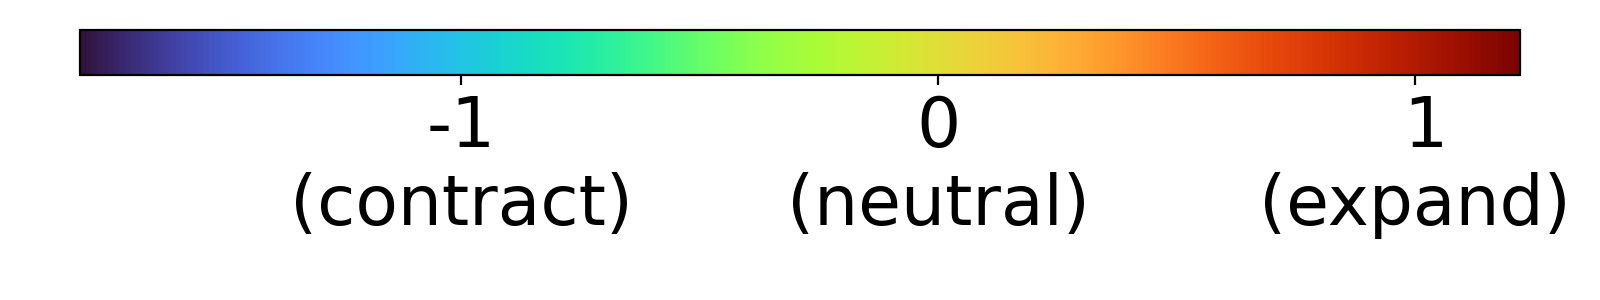
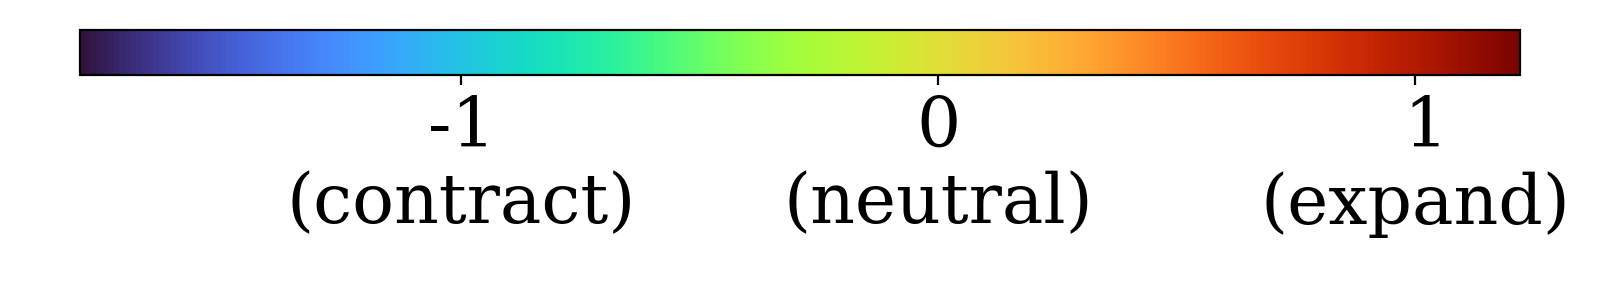
new licence, new colorbars

diff --git a/exp/actions.py b/exp/actions.py
@@ -125,11 +125,16 @@ def plot_loss_curves():
 
     fig, ax = plt.subplots(figsize=(10, 5))
     plt.rcParams.update({'font.size': 15})
-    ax.set_xlabel("epoch", fontsize=15)
-    ax.set_ylabel("Geometric Loss", fontsize=15)
-    ax.tick_params(axis='both', which='major', labelsize=15)
+    plt.rcParams['font.family'] = 'DeJavu Serif'
+    plt.rcParams['font.serif'] = ['Times New Roman']
 
-    plt.rcParams["font.family"] = "Times New Roman"
+    fontdict = {'family': 'DeJavu Serif',
+                # 'serif': 'Times New Roman',
+                'size': 15}
+
+    ax.set_xlabel("Epoch", fontdict=fontdict)
+    ax.set_ylabel("Geometric Loss", fontdict=fontdict)
+    ax.tick_params(axis='both', which='major', labelsize=15)
 
     for model, loss in losses.items():
         if loss:
@@ -145,14 +150,14 @@ def plot_loss_curves():
     mean_pumap_loss, std_pumap_loss = calc_pumap_geom_loss()
     # mean_pumap_loss, std_pumap_loss = [100], [2]
 
-    ax.errorbar(150, mean_pumap_loss, yerr=std_pumap_loss, label="UMAP", color="darkgoldenrod", capsize=10,
+    ax.errorbar(150, mean_pumap_loss, yerr=std_pumap_loss, label="UMAP AE", color="darkgoldenrod", capsize=10,
                 elinewidth=2, ms=10, marker=".")
 
     x_int = [0, 20, 40, 60, 80, 100, 150]
     x_str = [0, 20, 40, 60, 80, 100, "UMAP AE"]
 
-    ax.set_xticks(x_int)
-    ax.set_xticklabels(x_str)
+    ax.set_xticks(x_int, fontdict=fontdict)
+    ax.set_xticklabels(x_str, fontdict=fontdict)
 
     chartBox = ax.get_position()
     # ax.set_position([0, 0, chartBox.width, chartBox.height])
@@ -265,7 +270,7 @@ def calc_pumap_geom_loss():
 
 def create_colorbar():
     root_path = os.path.join(os.path.dirname(__file__), 'output/graphics/cbar')
-    sizes = [10, 15, 20, 25, 35]
+    sizes = [10, 15, 20, 25, 30, 35]
     # sizes = [10]
 
     for size in sizes:
@@ -277,7 +282,8 @@ def create_colorbar():
         fig = plt.figure(figsize=(2., 8))
         # ax1 = fig.add_axes([0.05, 0.75, 0.9, 0.15])
         ax1 = fig.add_axes([0.05, 0.05, 0.15, 0.9])
-
+        plt.rcParams['font.family'] = 'DeJavu Serif'
+        plt.rcParams['font.serif'] = ['Times New Roman']
         cmap_old = plt.get_cmap("turbo")
 
         minval = 0.4  # 0.2
@@ -301,7 +307,7 @@ def create_colorbar():
         cb1.ax.tick_params(labelsize=size)
         # cb1.set_label('Scaled Generalized Jacobian Determinant', size=size)
 
-        plt.savefig(path, **get_saving_kwargs())
+        plt.savefig(path, format="png", pad_inches=0, dpi=200)
 
         plt.show()
 
@@ -325,7 +331,7 @@ def create_colorbar():
         cb1.ax.set_xticklabels(["-1\n(contract)", "0\n(neutral)", " 1\n(expand)"])
         cb1.ax.tick_params(labelsize=size)
 
-        plt.savefig(path, **get_saving_kwargs())
+        plt.savefig(path, format="png", pad_inches=0, dpi=200)
 
         plt.show()
 
@@ -357,7 +363,7 @@ def create_colorbar():
         cb1.ax.set_xticklabels(["contract", "neutral", " expand"])
         cb1.ax.tick_params(labelsize=size)
 
-        plt.savefig(path, **get_saving_kwargs())
+        plt.savefig(path, format="png", pad_inches=0, dpi=200)
 
         plt.show()
 
@@ -441,4 +447,4 @@ def pullback_metric_condition():
     print("PUMAP", mean_cond_umap, std_cond_umap)
 
 
-pullback_metric_condition()
+plot_loss_curves()

diff --git a/scripts/load_results.py b/scripts/load_results.py
@@ -352,50 +352,3 @@ with pd.option_context("max_colwidth", 10000):
 
 # convert to df: df = pd.DataFrame.from_dict(experiment, orient='index')
 # format is then df['Vanilla']['CIFAR']['test_mean_mrre']['mean']
-
-
-"""# remove column index of data mse
-idx = np.arange(rankings.shape[1])
-idx = np.delete(idx, np.where(df.columns.values == "MSE"))
-
-rankings_without_mse = rankings[:, idx]
-rankings_with_mse = rankings
-
-# calculate mean over all datasets
-mean_ranking_with_mse = np.nanmean(rankings, axis=0).T
-mean_ranking_without_mse = np.nanmean(rankings_without_mse, axis=0).T
-
-# replace 11. by NaN
-# mean_ranking_with_mse[mean_ranking_with_mse == 11.] = float("NaN")
-# mean_ranking_with_mse = mean_ranking_with_mse.round(3).astype(str)
-
-# TODO: make sure I calc the mean mean ranking without mse without mse for all methods!
-# calculate mean over all metrics
-mean_mean_ranking_without_mse = np.nanmean(mean_ranking_without_mse, axis=1).astype("float")
-mean_mean_ranking_with_mse = np.nanmean(mean_ranking_with_mse, axis=1).astype("float")
-
-# mean_ranking_without_mse = mean_ranking_without_mse.round(3).astype(str)
-# mean_ranking_with_mse = mean_ranking_with_mse.round(3).astype(str)
-
-df["$\langle \\text{rank*} \rangle$"] = mean_mean_ranking_without_mse
-df["$\langle \\text{rank} \rangle$"] = mean_mean_ranking_with_mse
-
-mean_mean_ranking_without_mse = np.expand_dims(mean_mean_ranking_without_mse, axis=1).round(3).astype(str)
-mean_mean_ranking_with_mse = np.expand_dims(mean_mean_ranking_with_mse, axis=1).round(3).astype(str)
-mean_ranking = np.hstack((mean_ranking_with_mse, mean_mean_ranking_without_mse, mean_mean_ranking_with_mse))
-
-columns = df.columns.values
-rows = df.index.values
-
-df = pd.DataFrame(mean_ranking, columns=columns, index=rows)
-df = highlight_best_with_std(df, larger_is_better, small_is_better=True)
-
-# df = df.reindex(order_measures_ranks, axis=1)
-# df = df[order_measures_ranks]
-
-with pd.option_context("max_colwidth", 10000):
-    df.to_latex(f'{outpath}/ranks_aggregated_3_digits.tex', escape=False)
-
-# convert to df: df = pd.DataFrame.from_dict(experiment, orient='index')
-# format is then df['Vanilla']['CIFAR']['test_mean_mrre']['mean']
-"""

diff --git a/src/training.py b/src/training.py
@@ -103,7 +103,6 @@ class TrainingLoop():
                 if self.device == 'cuda':
                     img = img.cuda(non_blocking=True)
 
-                # TODO redo
                 self.on_batch_begin(remove_self(locals()))
 
                 # Set model into training mode and compute loss
@@ -119,10 +118,8 @@ class TrainingLoop():
                     geom_error += loss_components["loss.geom_error"]
 
                 # Call callbacks
-                # TODO redo
                 self.on_batch_end(remove_self(locals()))
 
-            # TODO redo
             if self.on_epoch_end(remove_self(locals())):
                 break
 

diff --git a/exp/analysis.py b/exp/analysis.py
@@ -8,27 +8,27 @@ from evaluation import evaluate
 model_paths = []
 
 datasets = [
-    "MNIST",
-    # "Earth",
-    "FashionMNIST",
-    "CElegans",
-    "Zilionis_normalized",
-    "PBMC_new"
+    # "MNIST",
+    "Earth",
+    # "FashionMNIST",
+    # "CElegans",
+    # "Zilionis_normalized",
+    # "PBMC_new"
 ]
 
 models = [
     # "Vanilla",
     # "TopoReg",
-    # "GeomReg",
+    "GeomReg",
     # "PCA",
     # "TSNE",
     # "UMAP",
-    "ParametricUMAP"
+    # "ParametricUMAP"
 ]
 
 diagnostics = [
-    "indicatrices",
-    "determinants",
+    # "indicatrices",
+    # "determinants",
     "embedding"
 ]
 

diff --git a/exp/train_model.py b/exp/train_model.py
@@ -127,10 +127,6 @@ def train(n_epochs, batch_size, learning_rate, weight_decay, val_size,
                        device=device),
     ]
 
-    # TODO redo
-    # callbacks = []
-
-    # TODO redo
     if quiet:
         # Add newlines between epochs
         callbacks.append(NewlineCallback())
@@ -157,7 +153,6 @@ def train(n_epochs, batch_size, learning_rate, weight_decay, val_size,
     # Run training
     training_loop()
 
-    # TODO redo
     if rundir:
         # Save model state (and entire model)
         print('Loading model checkpoint prior to evaluation...')

diff --git a/src/diagnostics/representations.py b/src/diagnostics/representations.py
@@ -29,7 +29,7 @@ def plot_latent_space(model,
     latent_activations = latent_activations[perm]
     labels = labels[perm]
 
-    with_legend = False
+    with_legend = True
 
     """
     Plotting
@@ -53,6 +53,9 @@ def plot_latent_space(model,
             fig, ax = plt.subplots(figsize=(30, 5))  # 29
         else:
             fig, ax = plt.subplots(figsize=(15, 5))  # 10
+
+    plt.rcParams['font.family'] = 'DeJavu Serif'
+    plt.rcParams['font.serif'] = ['Times New Roman']
 
     ax.set_aspect("equal")
     ax.axis("off")

diff --git a/src/diffgeo/metrics.py b/src/diffgeo/metrics.py
@@ -99,8 +99,6 @@ class PullbackMetric(RiemannianMetric):
         # problematics = inv_ex.info != 0
         # projector[problematics] = torch.zeros((2, 2), device=device)
 
-        # auf nummer sicher: noch rausprojizieren
-        # TODO: is the projector necessary?
         cometric_matrix = torch.nan_to_num(cometric_matrix, 0, 0, 0)  # * projector
 
         # if torch.any(problematics):

diff --git a/src/models/regularized.py b/src/models/regularized.py
@@ -164,7 +164,6 @@ class GeometricAutoencoder(AutoencoderModel):
     def decode(self, z):
         return self.autoencoder.decode(z)
 
-    # TODO: move those to base autoencoder model, when beautifying code
     def register_hook(self):
         self.autoencoder.encoder.register_forward_hook(self.get_activation())
 

diff --git a/data/handle_data.py b/data/handle_data.py
@@ -58,7 +58,6 @@ def load_data(train_batch_size=128, test_batch_size=32, dataset="MNIST"):
     return train_loader, test_loader
 
 
-# TODO: move into base class of autoencoders
 def data_forward(model, test_loader):
     inputs = torch.tensor([])
     outputs = torch.tensor([])

diff --git a/util.py b/util.py
@@ -304,8 +304,6 @@ def values_in_quantile(x, q=0):
 
 
 def determine_scaling_fn(scaling):
-    # TODO: return auch direkt das prefix. Also if lin, return "" else scaling
-
     # determine scaling of curvature values
     scaling_fn = None
     if type(scaling) == str:

diff --git a/LICENSE.md b/LICENSE.md
@@ -1,6 +1,6 @@
 MIT License
 
-Copyright (c) 2022 Kingrimursel
+Copyright (c) 2022 Philipp Nazari, Sebastian Damrich, Fred Hamprecht
 
 Permission is hereby granted, free of charge, to any person obtaining a copy
 of this software and associated documentation files (the "Software"), to deal
@@ -19,3 +19,36 @@ AUTHORS OR COPYRIGHT HOLDERS BE LIABLE FOR ANY CLAIM, DAMAGES OR OTHER
 LIABILITY, WHETHER IN AN ACTION OF CONTRACT, TORT OR OTHERWISE, ARISING FROM,
 OUT OF OR IN CONNECTION WITH THE SOFTWARE OR THE USE OR OTHER DEALINGS IN THE
 SOFTWARE.
+
+Part of this code was taken from the Topological Autoencoder paper, which is licenced under:
+
+BSD 3-Clause License
+
+Copyright (c) 2020, Michael Moor, Max Horn, Bastian Rieck
+All rights reserved.
+
+Redistribution and use in source and binary forms, with or without
+modification, are permitted provided that the following conditions are met:
+
+1. Redistributions of source code must retain the above copyright notice, this
+   list of conditions and the following disclaimer.
+
+2. Redistributions in binary form must reproduce the above copyright notice,
+   this list of conditions and the following disclaimer in the documentation
+   and/or other materials provided with the distribution.
+
+3. Neither the name of the copyright holder nor the names of its
+   contributors may be used to endorse or promote products derived from
+   this software without specific prior written permission.
+
+THIS SOFTWARE IS PROVIDED BY THE COPYRIGHT HOLDERS AND CONTRIBUTORS "AS IS"
+AND ANY EXPRESS OR IMPLIED WARRANTIES, INCLUDING, BUT NOT LIMITED TO, THE
+IMPLIED WARRANTIES OF MERCHANTABILITY AND FITNESS FOR A PARTICULAR PURPOSE ARE
+DISCLAIMED. IN NO EVENT SHALL THE COPYRIGHT HOLDER OR CONTRIBUTORS BE LIABLE
+FOR ANY DIRECT, INDIRECT, INCIDENTAL, SPECIAL, EXEMPLARY, OR CONSEQUENTIAL
+DAMAGES (INCLUDING, BUT NOT LIMITED TO, PROCUREMENT OF SUBSTITUTE GOODS OR
+SERVICES; LOSS OF USE, DATA, OR PROFITS; OR BUSINESS INTERRUPTION) HOWEVER
+CAUSED AND ON ANY THEORY OF LIABILITY, WHETHER IN CONTRACT, STRICT LIABILITY,
+OR TORT (INCLUDING NEGLIGENCE OR OTHERWISE) ARISING IN ANY WAY OUT OF THE USE
+OF THIS SOFTWARE, EVEN IF ADVISED OF THE POSSIBILITY OF SUCH DAMAGE.
+
